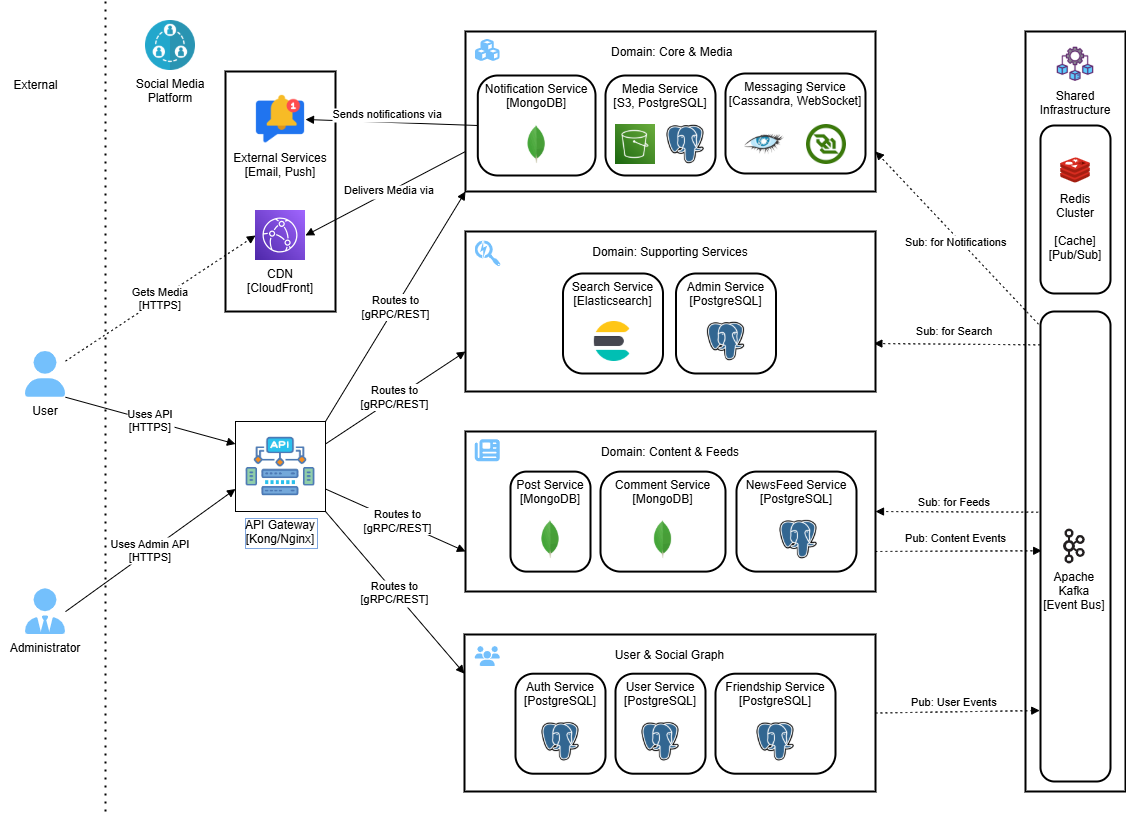
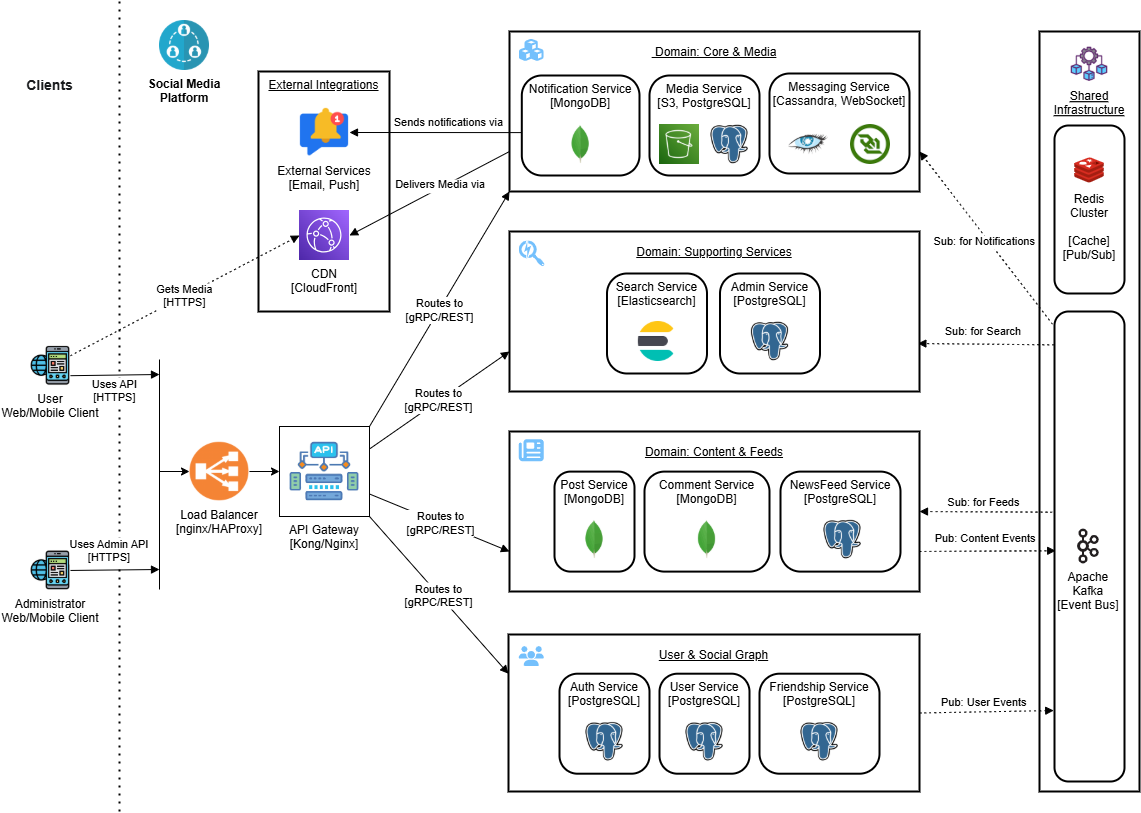
Спроектирована микросервисная архитектура социальной сети, описана структура базы данных для каждого микросервиса, описано API в формате Postman-коллекции .json

Changed region(s): [[0.0, 0.0, 1.0, 0.984], [0.4973, 0.3075, 0.7149, 0.4613], [0.0, 0.0923, 0.0622, 0.123]]

diff --git a/architecture/architecture-description.md b/architecture/architecture-description.md
@@ -1,68 +1,76 @@
-Диаграмма представляет собой архитектуру микросервисов, разделённую на несколько доменов и уровней взаимодействия. Ниже описаны все микросервисы, их функции, используемые технологии и взаимодействие между ними.
+Диаграмма отражает архитектуру микросервисной социальной платформы, разделённую на домены и уровни взаимодействия. Ниже описаны все микросервисы, их функции, используемые технологии и взаимодействие между ними.
 
 ## Общая структура
 
 Диаграмма включает следующие основные компоненты:
-- **Внешние сущности**: User (Пользователь), Administrator (Администратор), External Services (Внешние сервисы).
-- **API Gateway**: Центральная точка входа для маршрутизации запросов.
+- **Клиенты**: User (Пользователь), Administrator (Администратор) — веб/мобильные клиенты.
+- **Load Balancer [nginx/HAProxy]**: Балансирует входящий трафик между API Gateway.
+- **API Gateway [Kong/Nginx]**: Центральная точка входа для маршрутизации запросов к микросервисам по gRPC/REST.
+- **Внешние интеграции**:
+  - **External Services [Email, Push]** — для отправки уведомлений.
+  - **CDN [CloudFront]** — для доставки медиафайлов пользователям напрямую по HTTPS.
 - **Доменные микросервисы**, разделённые на 4 группы:
-  - **Core & Media**: Основные сервисы и работа с медиа.
-  - **Supporting Services**: Поддерживающие сервисы.
-  - **Content & Feeds**: Сервисы для работы с контентом и лентами.
-  - **User & Social Graph**: Сервисы для управления пользователями и социальной графой.
-- **Общая инфраструктура (Shared Infrastructure)**: Redis Cluster и Apache Kafka для кэширования и асинхронного взаимодействия.
+  - **Core & Media**: Notification Service, Media Service, Messaging Service.
+  - **Supporting Services**: Search Service, Admin Service.
+  - **Content & Feeds**: Post Service, Comment Service, NewsFeed Service.
+  - **User & Social Graph**: Auth Service, User Service, Friendship Service.
+- **Shared Infrastructure**: Redis Cluster (Cache, Pub/Sub), Apache Kafka (Event Bus).
 
-## Внешние сущности
+## Внешние сущности и интеграции
 
 - **User (Пользователь)**: 
-  - Взаимодействует с системой через API Gateway по протоколу HTTPS.
-  - Использует Users API для отправки запросов.
+  - Использует API (HTTPS) для взаимодействия с системой через Load Balancer и API Gateway.
+  - Получает медиа напрямую через CDN (CloudFront) по HTTPS.
 - **Administrator (Администратор)**: 
-  - Взаимодействует через API Gateway по HTTPS.
-  - Использует Admin API для управления системой.
-- **External Services (Внешние сервисы)**: 
-  - Включают Email и Push-уведомления.
-  - Используются для доставки медиа (Delivers Media via).
+  - Использует Admin API (HTTPS) через Load Balancer и API Gateway.
+- **External Services (Email, Push)**: 
+  - Получают уведомления от Notification Service.
+- **CDN (CloudFront)**: 
+  - Доставляет медиафайлы пользователям.
+
+## Load Balancer
+
+- **Load Balancer [nginx/HAProxy]**:
+  - Балансирует входящий трафик между API Gateway.
 
 ## API Gateway
 
 - **API Gateway [Kong/Nginx]**:
   - Центральная точка входа для всех внешних запросов.
-  - Принимает запросы от пользователей и администраторов по HTTPS.
-  - Маршрутизирует запросы к микросервисам по протоколу gRPC или REST.
+  - Маршрутизирует запросы к микросервисам по gRPC/REST.
 
 ## Доменные микросервисы
 
-### 1. Core & Media (Основные сервисы и работа с медиа)
+### 1. Core & Media
 
 - **Notification Service [MongoDB]**:
   - Функция: Отправляет уведомления (Email, Push) через внешние сервисы.
-  - Технологии: MongoDB для хранения данных, Redis Cluster для кэширования и подписки на уведомления (Pub/Sub).
+  - Технологии: MongoDB для хранения данных, Redis Cluster для кэширования и подписки на уведомления (Sub: for Notifications).
   - Взаимодействие: Отправляет уведомления внешним сервисам.
 
 - **Media Service [S3, PostgreSQL]**:
-  - Функция: Управляет медиафайлами, доставляет их через CDN [CloudFront].
+  - Функция: Управляет медиафайлами, доставляет их через CDN (CloudFront).
   - Технологии: S3 для хранения файлов, PostgreSQL для метаданных, Redis для подписки на уведомления (Pub/Sub).
-  - Взаимодействие: Доставляет медиа внешним сервисам и социальным сетям.
+  - Взаимодействие: Доставляет медиа через CDN.
 
 - **Messaging Service [Cassandra, WebSocket]**:
-  - Функция: Обеспечивает функционал мессенджера в реальном времени.
+  - Функция: Реализует обмен сообщениями в реальном времени.
   - Технологии: Cassandra для хранения сообщений, WebSocket для обмена данными, Redis для подписки на уведомления (Pub/Sub).
   - Взаимодействие: Обрабатывает сообщения пользователей через WebSocket.
 
-### 2. Supporting Services (Поддерживающие сервисы)
+### 2. Supporting Services
 
 - **Search Service [Elasticsearch]**:
-  - Функция: Обеспечивает поиск по данным системы.
+  - Функция: Поиск по данным системы.
   - Технологии: Elasticsearch для индексации и поиска, Apache Kafka для подписки на поисковые события (Sub: for Search).
   - Взаимодействие: Получает события поиска через Kafka.
 
 - **Admin Service [PostgreSQL]**:
-  - Функция: Управляет административными задачами.
+  - Функция: Управление административными задачами.
   - Технологии: PostgreSQL для хранения данных.
   - Взаимодействие: Принимает запросы от API Gateway по gRPC/REST.
 
-### 3. Content & Feeds (Контент и ленты)
+### 3. Content & Feeds
 
 - **Post Service [MongoDB]**:
   - Функция: Управляет постами пользователей.
@@ -74,56 +82,55 @@
   - Технологии: MongoDB для хранения данных, Apache Kafka для публикации событий контента (Pub: Content Events).
   - Взаимодействие: Принимает запросы через API Gateway (gRPC/REST), публикует события в Kafka.
 
-- **Newsfeed Service [PostgreSQL]**:
+- **NewsFeed Service [PostgreSQL]**:
   - Функция: Формирует новостные ленты пользователей.
   - Технологии: PostgreSQL для хранения данных, Apache Kafka для подписки на события лент (Sub: for Feeds) и публикации событий контента (Pub: Content Events).
   - Взаимодействие: Принимает запросы через API Gateway, взаимодействует с Kafka.
 
-### 4. User & Social Graph (Пользователи и социальный граф)
+### 4. User & Social Graph
 
 - **Auth Service [PostgreSQL]**:
-  - Функция: Отвечает за аутентификацию и авторизацию.
+  - Функция: Аутентификация и авторизация.
   - Технологии: PostgreSQL для хранения данных, Apache Kafka для публикации событий пользователей (Pub: User Events).
   - Взаимодействие: Принимает запросы через API Gateway (gRPC/REST), публикует события в Kafka.
 
 - **User Service [PostgreSQL]**:
-  - Функция: Управляет данными пользователей.
+  - Функция: Управление данными пользователей.
   - Технологии: PostgreSQL для хранения данных, Apache Kafka для публикации событий пользователей (Pub: User Events).
   - Взаимодействие: Принимает запросы через API Gateway (gRPC/REST), публикует события в Kafka.
 
 - **Friendship Service [PostgreSQL]**:
-  - Функция: Управляет социальными связями (дружбой).
+  - Функция: Управление социальными связями (дружбой).
   - Технологии: PostgreSQL для хранения данных, Apache Kafka для публикации событий пользователей (Pub: User Events).
   - Взаимодействие: Принимает запросы через API Gateway (gRPC/REST), публикует события в Kafka.
 
-## Общая инфраструктура
+## Shared Infrastructure
 
-- **Redis Cluster [Cache]**:
-  - Функция: Кэширование данных и механизм публикации/подписки (Pub/Sub).
-  - Используется сервисами: Notification Service, Media Service, Messaging Service.
+- **Redis Cluster [Cache, Pub/Sub]**:
+  - Кэширование данных и механизм публикации/подписки.
+  - Используется сервисами: Notification Service (Sub: for Notifications), Media Service, Messaging Service.
 
 - **Apache Kafka [Event Bus]**:
-  - Функция: Асинхронное взаимодействие между сервисами через шину событий.
+  - Асинхронное взаимодействие между сервисами через шину событий.
   - Поддерживает:
-    - Публикацию событий контента (Post Service, Comment Service, Newsfeed Service).
-    - Публикацию событий пользователей (Auth Service, User Service, Friendship Service).
-    - Подписку на события лент (Newsfeed Service).
-    - Подписку на события поиска (Search Service).
+    - Публикацию событий контента (Post Service, Comment Service, NewsFeed Service) — Pub: Content Events.
+    - Публикацию событий пользователей (Auth Service, User Service, Friendship Service) — Pub: User Events.
+    - Подписку на события лент (NewsFeed Service) — Sub: for Feeds.
+    - Подписку на события поиска (Search Service) — Sub: for Search.
 
 ## Взаимодействие между компонентами
 
-1. **Пользователи и администраторы** отправляют запросы через API Gateway по HTTPS.
+1. **Пользователи и администраторы** отправляют запросы через Load Balancer и API Gateway по HTTPS.
 2. **API Gateway** маршрутизирует запросы к микросервисам по gRPC/REST.
-3. **Notification Service** отправляет уведомления через внешние сервисы, используя Redis для кэширования и подписки.
-4. **Media Service** доставляет медиа через CDN, подписывается на уведомления через Redis.
+3. **Notification Service** отправляет уведомления через внешние сервисы (Email, Push), используя Redis для кэширования и подписки (Sub: for Notifications).
+4. **Media Service** доставляет медиа через CDN (CloudFront), подписывается на уведомления через Redis.
 5. **Messaging Service** обеспечивает обмен сообщениями через WebSocket, подписывается на уведомления через Redis.
-6. **Search Service** получает поисковые события через Apache Kafka.
+6. **Search Service** получает поисковые события через Apache Kafka (Sub: for Search).
 7. **Admin Service** обрабатывает административные запросы от API Gateway.
-8. **Post Service, Comment Service, Newsfeed Service** публикуют события контента в Kafka; Newsfeed Service также подписывается на события лент.
-9. **Auth Service, User Service, Friendship Service** публикуют события пользователей в Kafka.
+8. **Post Service, Comment Service, NewsFeed Service** публикуют события контента в Kafka (Pub: Content Events); NewsFeed Service также подписывается на события лент (Sub: for Feeds).
+9. **Auth Service, User Service, Friendship Service** публикуют события пользователей в Kafka (Pub: User Events).
 10. **Apache Kafka** служит шиной событий для асинхронного обмена данными.
 11. **Redis Cluster** используется для кэширования и Pub/Sub механизма уведомлений.
+12. **Пользователи получают медиа напрямую через CDN (CloudFront) по HTTPS.**
 
-## Итог
-
-Архитектура представляет чётко структурированную систему микросервисов. Каждый сервис отвечает за свою задачу, взаимодействуя через API Gateway для синхронных запросов и Apache Kafka для асинхронных событий. Redis обеспечивает кэширование и уведомления, что делает систему масштабируемой и надёжной.
+Архитектура представляет чётко структурированную систему микросервисов. Каждый сервис отвечает за свою задачу, взаимодействуя через API Gateway для синхронных запросов и Apache Kafka для асинхронных событий. Redis обеспечивает кэширование и уведомления, а CDN (CloudFront) — быструю доставку медиа, что делает систему масштабируемой и надёжной.

diff --git a/README.md b/README.md
@@ -39,6 +39,7 @@
     * **Что это:** Детальное текстовое описание архитектурного решения.
     * **Назначение:** Объясняет, почему были выбраны те или иные подходы. Описывает зону ответственности каждого
       микросервиса:
+        * **Load Balancer:** Балансировка нагрузки между клиентами и API Gateway.
         * **User Service:** Регистрация, авторизация, управление профилем.
         * **Post Service:** Создание постов и комментариев.
         * **Message Service:** Личная переписка.
